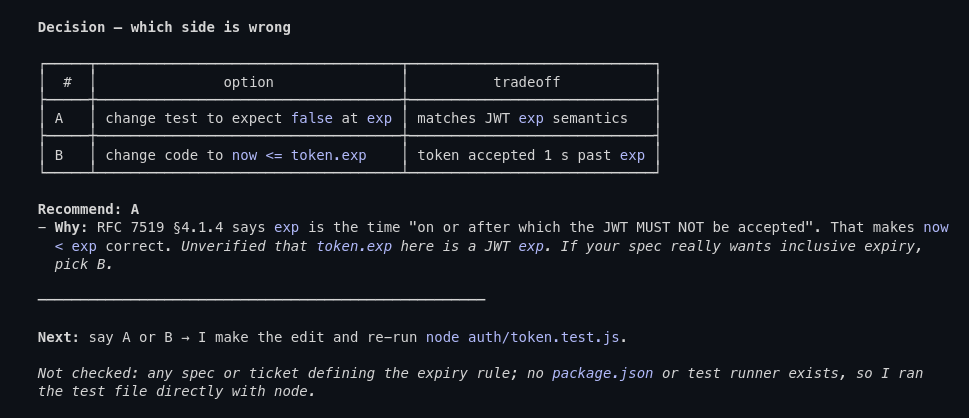
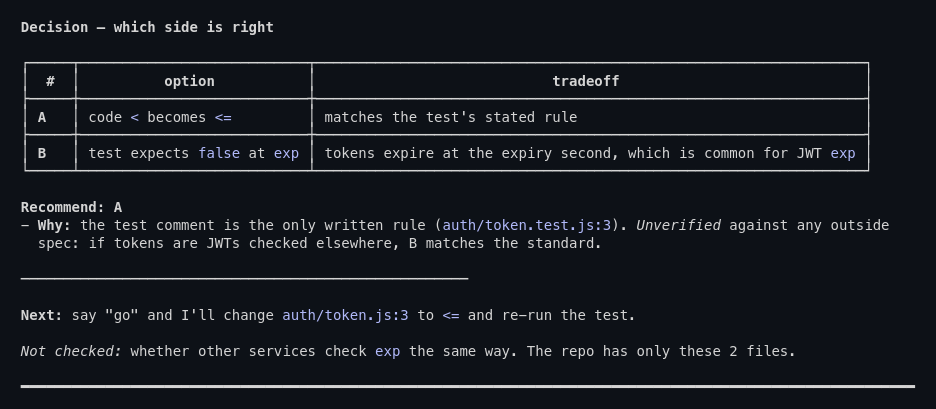
docs: reshoot the README visuals for v1.8
Why: overview.gif still showed PLAN without TAKE, fix.png the native
diff folio now folds, decision.png the old Next form, primer.png v1.5.0.

Impact: the README pictures show v1.8. answer, decision and fix now
come from a scripted shot, so later releases can reshoot them.

Verify: bash .github/visuals/shoot.sh margin fix primer; stills checked
by eye; bash tests/visuals.test.sh

diff --git a/README.md b/README.md
@@ -92,7 +92,7 @@ Answer first, evidence cited, one fix proposed, nothing edited until you say go,
 ### Code that stays small
 - **Lazy by default:** the smallest change that fully works ([ponytail](https://github.com/DietrichGebert/ponytail)).
 
-  <img src=".github/assets/fix.png" alt="A one-line test fix shown as a +2 -2 diff, then Claude reports the test now passes" width="720">
+  <img src=".github/assets/fix.png" alt="A one-line fix shown as one row, Updated auth/token.js +1 −1, then Claude reports the test now passes" width="720">
 
 - **Disciplined workflow:** debugging, TDD, plans and reviews via [superpowers](https://github.com/obra/superpowers).
 - **Fewer tokens:** short-form voice ([caveman](https://github.com/JuliusBrussee/caveman)), and every Bash call is filtered through [`rtk`](https://github.com/rtk-ai/rtk).
